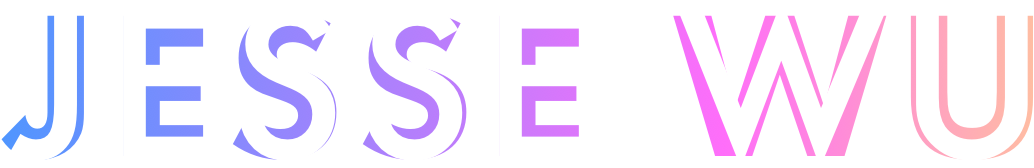
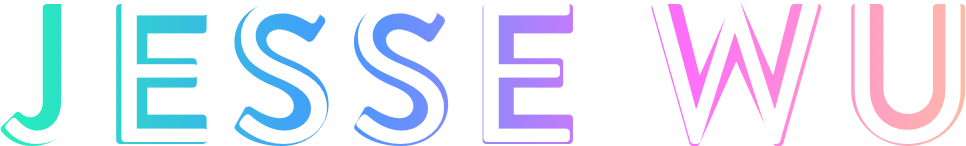
Redid homepage and navigation

diff --git a/css/style.css b/css/style.css
@@ -329,18 +329,20 @@ footer .fab, footer .fas{
 
 .navigation a {
 	text-decoration: none;
-	color: #ffffff;
+	color: rgba(255,255,255,1);
 	font-weight: inherit;
 }
 
 .nav-logo {
-	width: 50px;
-	height: 50px;
+	width: 45px;
+	height: 27px;
+	opacity: 1;
 	text-decoration: none;
 	position: relative;
 	top: 50%;
 	transform: translateY(-50%);
-	float: left;
+	margin: 0 auto;
+	float: center;
 }
 
 .nav-logo img {
@@ -348,11 +350,19 @@ footer .fab, footer .fas{
 }
 
 .nav-link {
-	float: right;
-	margin-left: 7%;
 	position: relative;
-	top: 50%;
-	transform: translateY(-50%);
+	margin-top: 10px;
+	padding-bottom: 5px;
+}
+
+.nav-link-left {
+	margin-right: 10%;
+	float: left;
+}
+
+.nav-link-right {
+	margin-left: 10%;
+	float: right;
 }
 
 .nav-link:link {
@@ -360,25 +370,26 @@ footer .fab, footer .fas{
 } 
 
 .nav-link:hover {
-	box-shadow: inset 0px -3px #50ebbe;
+	box-shadow: 0px 3px #50ebbe;
 	/*	transition: border-bottom 0.1s ease-in-out;	*/
 	color: #ffffff;
 } 
 
 .nav-link:active {
-	box-shadow: inset 0px -3px #50ebbe;
+	box-shadow: 0px 3px #50ebbe;
 	color: #ffffff;
 } 
 
 .nav-link:visited {
-
+/*	box-shadow: 0px 3px #50ebbe;
+	color: #ffffff;*/
 }
 
 
 .hero-contents {
 	margin: 0 auto;
-	margin-top: 155px;
-	margin-bottom: 225px;
+	margin-top: 100px;
+	margin-bottom: 150px;
 	font-family: "Circular Std";
 	text-align: center;
 	text-decoration: none;
@@ -388,7 +399,7 @@ footer .fab, footer .fas{
 .hero-heading {
 	width: 300px;
 	display: inline-block;
-	margin-bottom: 20px;
+	margin-bottom: 45px;
 }
 
 .hero-heading img {
@@ -401,17 +412,17 @@ footer .fab, footer .fas{
 	text-transform: ;
 	font-weight: 700;
 	line-height: 32px;
-	color: rgba(210,210,255,0.30);
+	color: rgba(210,210,255,0.5);
 	margin: 0 auto;
 	max-width: 600px;
-	margin-bottom: 75px;
+	margin-bottom: 50px;
 }
 
 .hero-text {
 	margin-top: 0vh;
 	font-size: 17pt;
 	font-weight: 300;
-	color: rgba(210,210,255,0.9);
+	color: rgba(210,210,255,0.5);
 	margin: 0 auto;
 	margin-bottom: 25px;
 	max-width: 600px;
@@ -424,7 +435,7 @@ footer .fab, footer .fas{
 }
 
 .hero-white-highlight {
-	color: rgba(255,255,255,1);
+	color: rgba(210,210,255,0.9);
 }
 
 .projects-grid {
@@ -904,11 +915,16 @@ footer .fab, footer .fas{
 		margin-top: 25px;
 	}
 
-
-
 	.navigation {
-		font-size: 13pt;
-		padding-right: 2%;
+		font-size: 11pt;
+	}
+
+	.nav-link-left {
+		margin-right: 5%;
+	}
+
+	.nav-link-right {
+		margin-left: 5%;
 	}
 
 	.hero {
@@ -917,7 +933,7 @@ footer .fab, footer .fas{
 
 	.hero-contents {
 		margin: 0 auto;
-		margin-top: 125px;
+		margin-top: 100px;
 		margin-bottom: 150px;
 		font-family: "Circular Std";
 		text-align: center;

diff --git a/index.html b/index.html
@@ -23,12 +23,13 @@
 	<nav class="navigation">
 		<div class="nav-logo">
 			<a href="index.html">
-				<img src="assets/logo-old.svg">
+				<img src="assets/logo-white.png">
 			</a>
 		</div>
-		<a class="nav-link" target="_self" href="about.html">About</a>
-		<a class="nav-link" target="_blank" href="resume.pdf">Résumé</a>
-		<a class="nav-link" target="_self" href="index.html">Work</a>
+		<a class="nav-link nav-link-left" target="_self" href="index.html">Work</a>
+		<a class="nav-link nav-link-left" target="_self" href="stuff.html">Not Work</a>
+		<a class="nav-link nav-link-right" target="_self" href="about.html">About</a>
+		<a class="nav-link nav-link-right" target="_blank" href="resume.pdf">Résumé</a>
 	</nav>
 	<!-- Navbar end  -->
 
@@ -43,10 +44,14 @@
 		</span>
 
 		<div class="hero-tags">
-			Designer &nbsp;&sdot;&nbsp; Researcher &nbsp;&sdot;&nbsp; Engineer
+			<span class="hero-white-highlight">Designer</span>
+			&nbsp;&sdot;&nbsp; 
+			<span class="hero-white-highlight">Researcher</span>
+			&nbsp;&sdot;&nbsp; 
+			<span class="hero-white-highlight">Engineer</span>
 		</div>
 		<div class="hero-text"> 
-			I like to <span class="hero-white-highlight"> learn people's stories</span> and <span class="hero-white-highlight">craft solutions</span> that are holistic, usable, and delightful to use. 
+			I like to learn people's stories and craft solutions that are holistic, usable, and delightful to use. 
 		</div>
 
 	</div>

diff --git a/about.html b/about.html
@@ -24,12 +24,13 @@
 	<nav class="navigation">
 		<div class="nav-logo">
 			<a href="index.html">
-				<img src="assets/logo-old.svg">
+				<img src="assets/logo-white.png">
 			</a>
 		</div>
-		<a class="nav-link" target="_self" href="about.html">About</a>
-		<a class="nav-link" target="_blank" href="resume.pdf">Résumé</a>
-		<a class="nav-link" target="_self" href="index.html">Work</a>
+		<a class="nav-link nav-link-left" target="_self" href="index.html">Work</a>
+		<a class="nav-link nav-link-left" target="_self" href="stuff.html">Not Work</a>
+		<a class="nav-link nav-link-right" target="_self" href="about.html">About</a>
+		<a class="nav-link nav-link-right" target="_blank" href="resume.pdf">Résumé</a>
 	</nav>
 	<!-- Navbar end  -->
 

diff --git a/digital-bus-attendant.html b/digital-bus-attendant.html
@@ -28,12 +28,13 @@
 	<nav class="navigation">
 		<div class="nav-logo">
 			<a href="index.html">
-				<img src="assets/logo-old.svg">
+				<img src="assets/logo-white.png">
 			</a>
 		</div>
-		<a class="nav-link" target="_self" href="about.html">About</a>
-		<a class="nav-link" target="_blank" href="resume.pdf">Résumé</a>
-		<a class="nav-link" target="_self" href="index.html">Work</a>
+		<a class="nav-link nav-link-left" target="_self" href="index.html">Work</a>
+		<a class="nav-link nav-link-left" target="_self" href="stuff.html">Not Work</a>
+		<a class="nav-link nav-link-right" target="_self" href="about.html">About</a>
+		<a class="nav-link nav-link-right" target="_blank" href="resume.pdf">Résumé</a>
 	</nav>
 	<!-- Navbar end  -->
 

diff --git a/mywit.html b/mywit.html
@@ -28,12 +28,13 @@
 	<nav class="navigation">
 		<div class="nav-logo">
 			<a href="index.html">
-				<img src="assets/logo-old.svg">
+				<img src="assets/logo-white.png">
 			</a>
 		</div>
-		<a class="nav-link" target="_self" href="about.html">About</a>
-		<a class="nav-link" target="_blank" href="resume.pdf">Résumé</a>
-		<a class="nav-link" target="_self" href="index.html">Work</a>
+		<a class="nav-link nav-link-left" target="_self" href="index.html">Work</a>
+		<a class="nav-link nav-link-left" target="_self" href="stuff.html">Not Work</a>
+		<a class="nav-link nav-link-right" target="_self" href="about.html">About</a>
+		<a class="nav-link nav-link-right" target="_blank" href="resume.pdf">Résumé</a>
 	</nav>
 	<!-- Navbar end  -->
 

diff --git a/pioneers.html b/pioneers.html
@@ -28,12 +28,13 @@
 	<nav class="navigation">
 		<div class="nav-logo">
 			<a href="index.html">
-				<img src="assets/logo-old.svg">
+				<img src="assets/logo-white.png">
 			</a>
 		</div>
-		<a class="nav-link" target="_self" href="about.html">About</a>
-		<a class="nav-link" target="_blank" href="resume.pdf">Résumé</a>
-		<a class="nav-link" target="_self" href="index.html">Work</a>
+		<a class="nav-link nav-link-left" target="_self" href="index.html">Work</a>
+		<a class="nav-link nav-link-left" target="_self" href="stuff.html">Not Work</a>
+		<a class="nav-link nav-link-right" target="_self" href="about.html">About</a>
+		<a class="nav-link nav-link-right" target="_blank" href="resume.pdf">Résumé</a>
 	</nav>
 	<!-- Navbar end  -->
 

diff --git a/pixel-art-printer.html b/pixel-art-printer.html
@@ -28,12 +28,13 @@
 	<nav class="navigation">
 		<div class="nav-logo">
 			<a href="index.html">
-				<img src="assets/logo-old.svg">
+				<img src="assets/logo-white.png">
 			</a>
 		</div>
-		<a class="nav-link" target="_self" href="about.html">About</a>
-		<a class="nav-link" target="_blank" href="resume.pdf">Résumé</a>
-		<a class="nav-link" target="_self" href="index.html">Work</a>
+		<a class="nav-link nav-link-left" target="_self" href="index.html">Work</a>
+		<a class="nav-link nav-link-left" target="_self" href="stuff.html">Not Work</a>
+		<a class="nav-link nav-link-right" target="_self" href="about.html">About</a>
+		<a class="nav-link nav-link-right" target="_blank" href="resume.pdf">Résumé</a>
 	</nav>
 	<!-- Navbar end  -->
 

diff --git a/private-eye.html b/private-eye.html
@@ -28,12 +28,13 @@
 	<nav class="navigation">
 		<div class="nav-logo">
 			<a href="index.html">
-				<img src="assets/logo-old.svg">
+				<img src="assets/logo-white.png">
 			</a>
 		</div>
-		<a class="nav-link" target="_self" href="about.html">About</a>
-		<a class="nav-link" target="_blank" href="resume.pdf">Résumé</a>
-		<a class="nav-link" target="_self" href="index.html">Work</a>
+		<a class="nav-link nav-link-left" target="_self" href="index.html">Work</a>
+		<a class="nav-link nav-link-left" target="_self" href="stuff.html">Not Work</a>
+		<a class="nav-link nav-link-right" target="_self" href="about.html">About</a>
+		<a class="nav-link nav-link-right" target="_blank" href="resume.pdf">Résumé</a>
 	</nav>
 	<!-- Navbar end  -->
 
